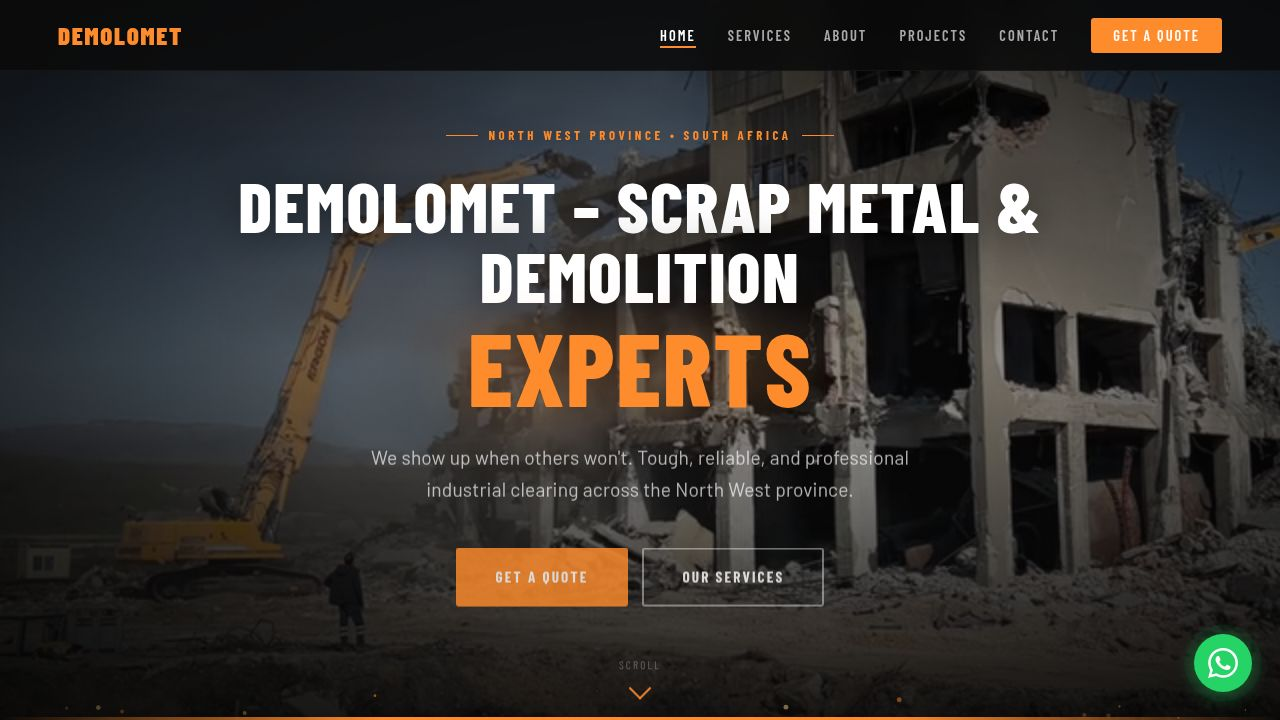
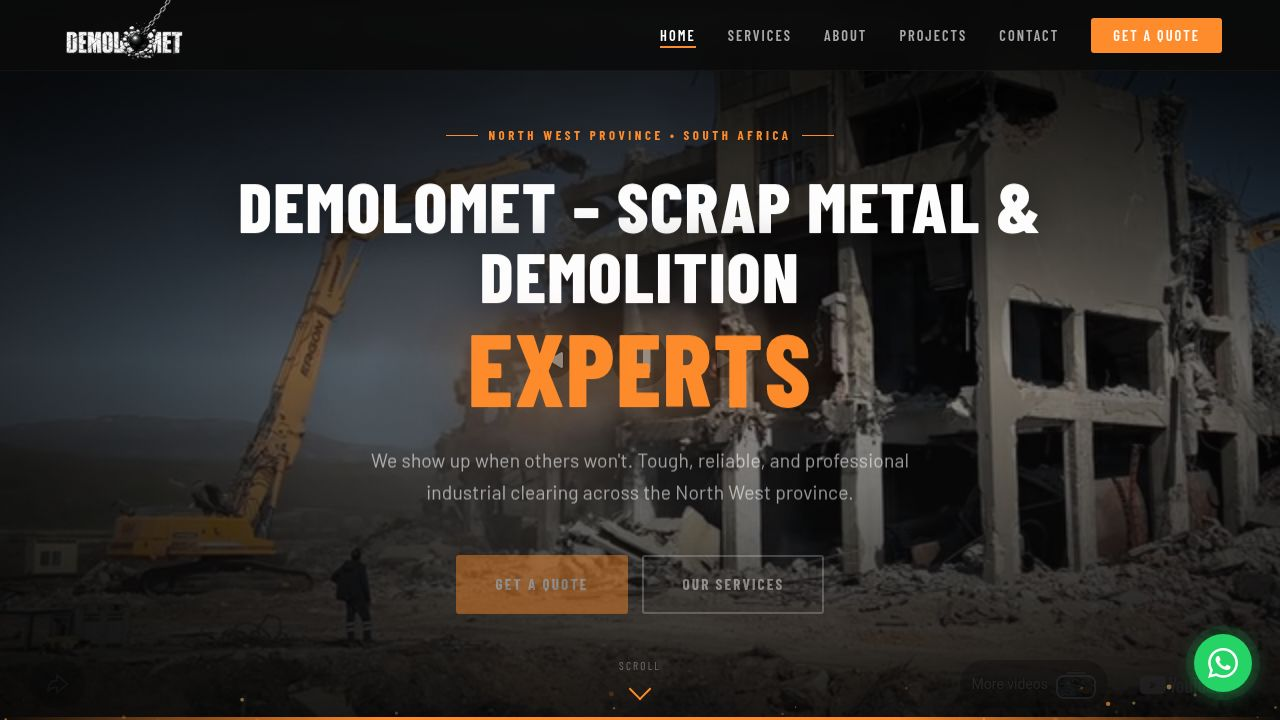
Add subtle motion to the background image on mobile devices
Update CSS to include a Ken Burns effect animation for the hero background image, and adjust asset metadata.

Replit-Commit-Author: Agent
Replit-Commit-Session-Id: e2c6171e-c612-4be1-bc07-d3f1c1ff9e94
Replit-Commit-Checkpoint-Type: full_checkpoint
Replit-Commit-Event-Id: b5621e89-5824-4dbe-a3b0-99b210d8c3a6
Replit-Commit-Screenshot-Url: https://storage.googleapis.com/screenshot-production-us-central1/88c1649d-90ff-410e-87ea-835f482710e3/e2c6171e-c612-4be1-bc07-d3f1c1ff9e94/p03RKAt
Replit-Helium-Checkpoint-Created: true

diff --git a/artifacts/demolomet/css/style.css b/artifacts/demolomet/css/style.css
@@ -417,7 +417,14 @@ h1, h2, h3, h4, h5 {
   .hero-bg {
     background:
       url('https://images.pexels.com/photos/11555191/pexels-photo-11555191.jpeg?auto=compress&cs=tinysrgb&w=1920') center/cover no-repeat;
+    animation: hero-ken-burns 22s ease-in-out infinite alternate;
+    will-change: transform;
   }
+}
+
+@keyframes hero-ken-burns {
+  0%   { transform: scale(1.0) translate(0%, 0%); }
+  100% { transform: scale(1.12) translate(3%, -3%); }
 }
 
 /* Moving diagonal light sweep over the video */
